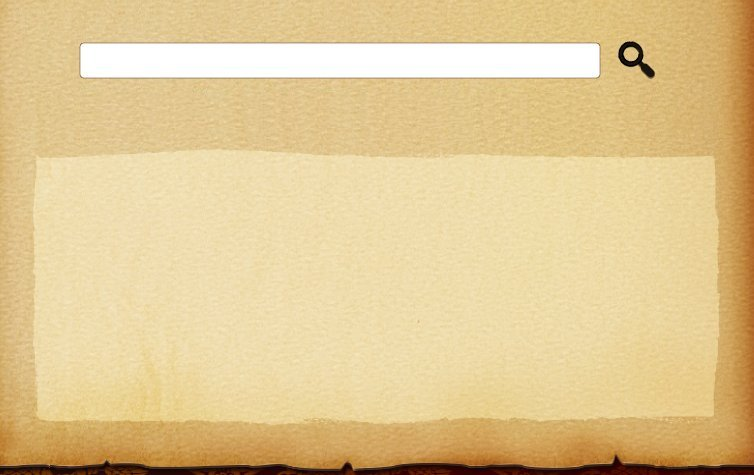
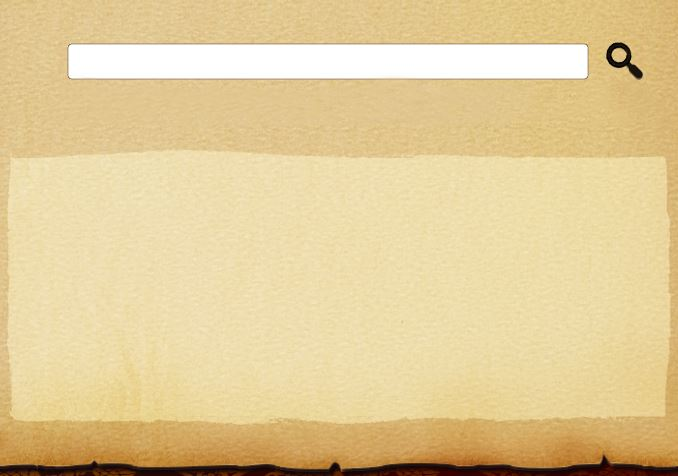
增加右下角的印章功能, 同時調整畫面位置.

Changed region(s): [[0.0, 0.0, 1.0, 1.0], [0.0, 0.3242, 0.0619, 0.9137], [0.8363, 0.9137, 0.8673, 0.9432]]

diff --git a/kangxi.js b/kangxi.js
@@ -205,6 +205,8 @@ $( document ).ready(function() {
 		function() {
 			clearTimeout(waittime);
 			$("body").css("background-image", "url(image/main_back.jpg)");
+			$("#menu_5").css("background-image" , "url(image/menu5_b.png)");
+			$("#menu_6").css("background-image" , "url(image/menu6_b.png)");
 			document.getElementById("page0_audio").pause();
 			$("#page0").hide();
 			$("#page1").show();
@@ -464,13 +466,31 @@ $( document ).ready(function() {
 		function() {
 			show_page13();
 	});
+	// 關於我們
+	$("#menu_5").mouseenter(
+		function() {
+			$("#menu_5").css("background-image" , "url(image/menu5.png)");
+	});
+	$("#menu_5").mouseleave(
+		function() {
+			$("#menu_5").css("background-image" , "url(image/menu5_b.png)");
+	});
 	$("#menu_5").click(
 		function() {
-			location.assign("reference.htm");
+			location.assign("about.htm");
+	});
+	// 使用說明
+	$("#menu_6").mouseenter(
+		function() {
+			$("#menu_6").css("background-image" , "url(image/menu6.png)");
+	});
+	$("#menu_6").mouseleave(
+		function() {
+			$("#menu_6").css("background-image" , "url(image/menu6_b.png)");
 	});
 	$("#menu_6").click(
 		function() {
-			location.assign("about.htm");
+			location.assign("readme.htm");
 	});
 	// 康熙字典切換解釋與部件
 	$("#page9_menu_glypheme").mouseenter(
@@ -929,7 +949,7 @@ function stick_h_animate(obj)
 {
 	var w = obj.width();
 	obj.width(60+53-16);	 // 60: 左邊寬度, 53: 右軸寬度 , 16: 右邊透明的部份
-	$("#img_stick_h").css("left", "210px");  // 150 (原始 left) + 60
+	$("#img_stick_h").css("left", "180px");  // 120 (原始 left) + 60
 	obj.show();
 	$("#page11").show();
 	
@@ -940,7 +960,7 @@ function stick_h_animate(obj)
 		}
 	);
 	$( "#img_stick_h" ).animate({
-			left: 210 + 640 - 53	// 總長 700 - 60 = 640
+			left: 180 + 640 - 53	// 總長 700 - 60 = 640
 		}, 1000
 	);
 }

diff --git a/kangxi.css b/kangxi.css
@@ -27,8 +27,9 @@ div#menu_1 { left: 370px; }
 div#menu_2 { left: 500px; }
 div#menu_3 { left: 628px; }
 div#menu_4 { left: 755px; }
-div#menu_5 { left: 713px; top: 80px; width: 77px; height: 24px;}
-div#menu_6 { left: 795px; top: 80px; width: 77px; height: 24px;}
+
+div#menu_5 { left: 827px; top: 476px; width: 43px; height: 42px;}
+div#menu_6 { left: 827px; top: 536px; width: 43px; height: 42px;}
 
 /* 首頁動畫 */
 #swiffycontainer {
@@ -132,7 +133,7 @@ div#menu_6 { left: 795px; top: 80px; width: 77px; height: 24px;}
 /* 第六頁, 第七頁, 第十頁 (名單) */
 #page6, #page7, #page10 {
 	position: absolute;
-	left: 150px;
+	left: 120px;
 	top: 186px;
 	width: 700px;
 	height: 430px;
@@ -230,20 +231,20 @@ div#menu_6 { left: 795px; top: 80px; width: 77px; height: 24px;}
 /* 第九頁 康熙字典 */
 #img_dict {
 	position: absolute;
-	left: 128px;
+	left: 140px;
 	top: 176px;
 }
 #tofind {
 	position: absolute;
 	left: 208px;
-	top: 219px;
+	top: 220px;
 	width: 520px;
 	height: 35px;
 	font-size: 16px;
 	background: #fff;
 }
 #page9_explain {
-	left: 180px;
+	left: 155px;
 	top: 350px;
 	width: 650px;
 	height: 230px;

diff --git a/readme.htm b/readme.htm
@@ -24,7 +24,7 @@ body {
 </head>
 <body>
 	<div id="main">
-		參考文獻：
+		使用說明：
 		
 	</div>
 </body>
